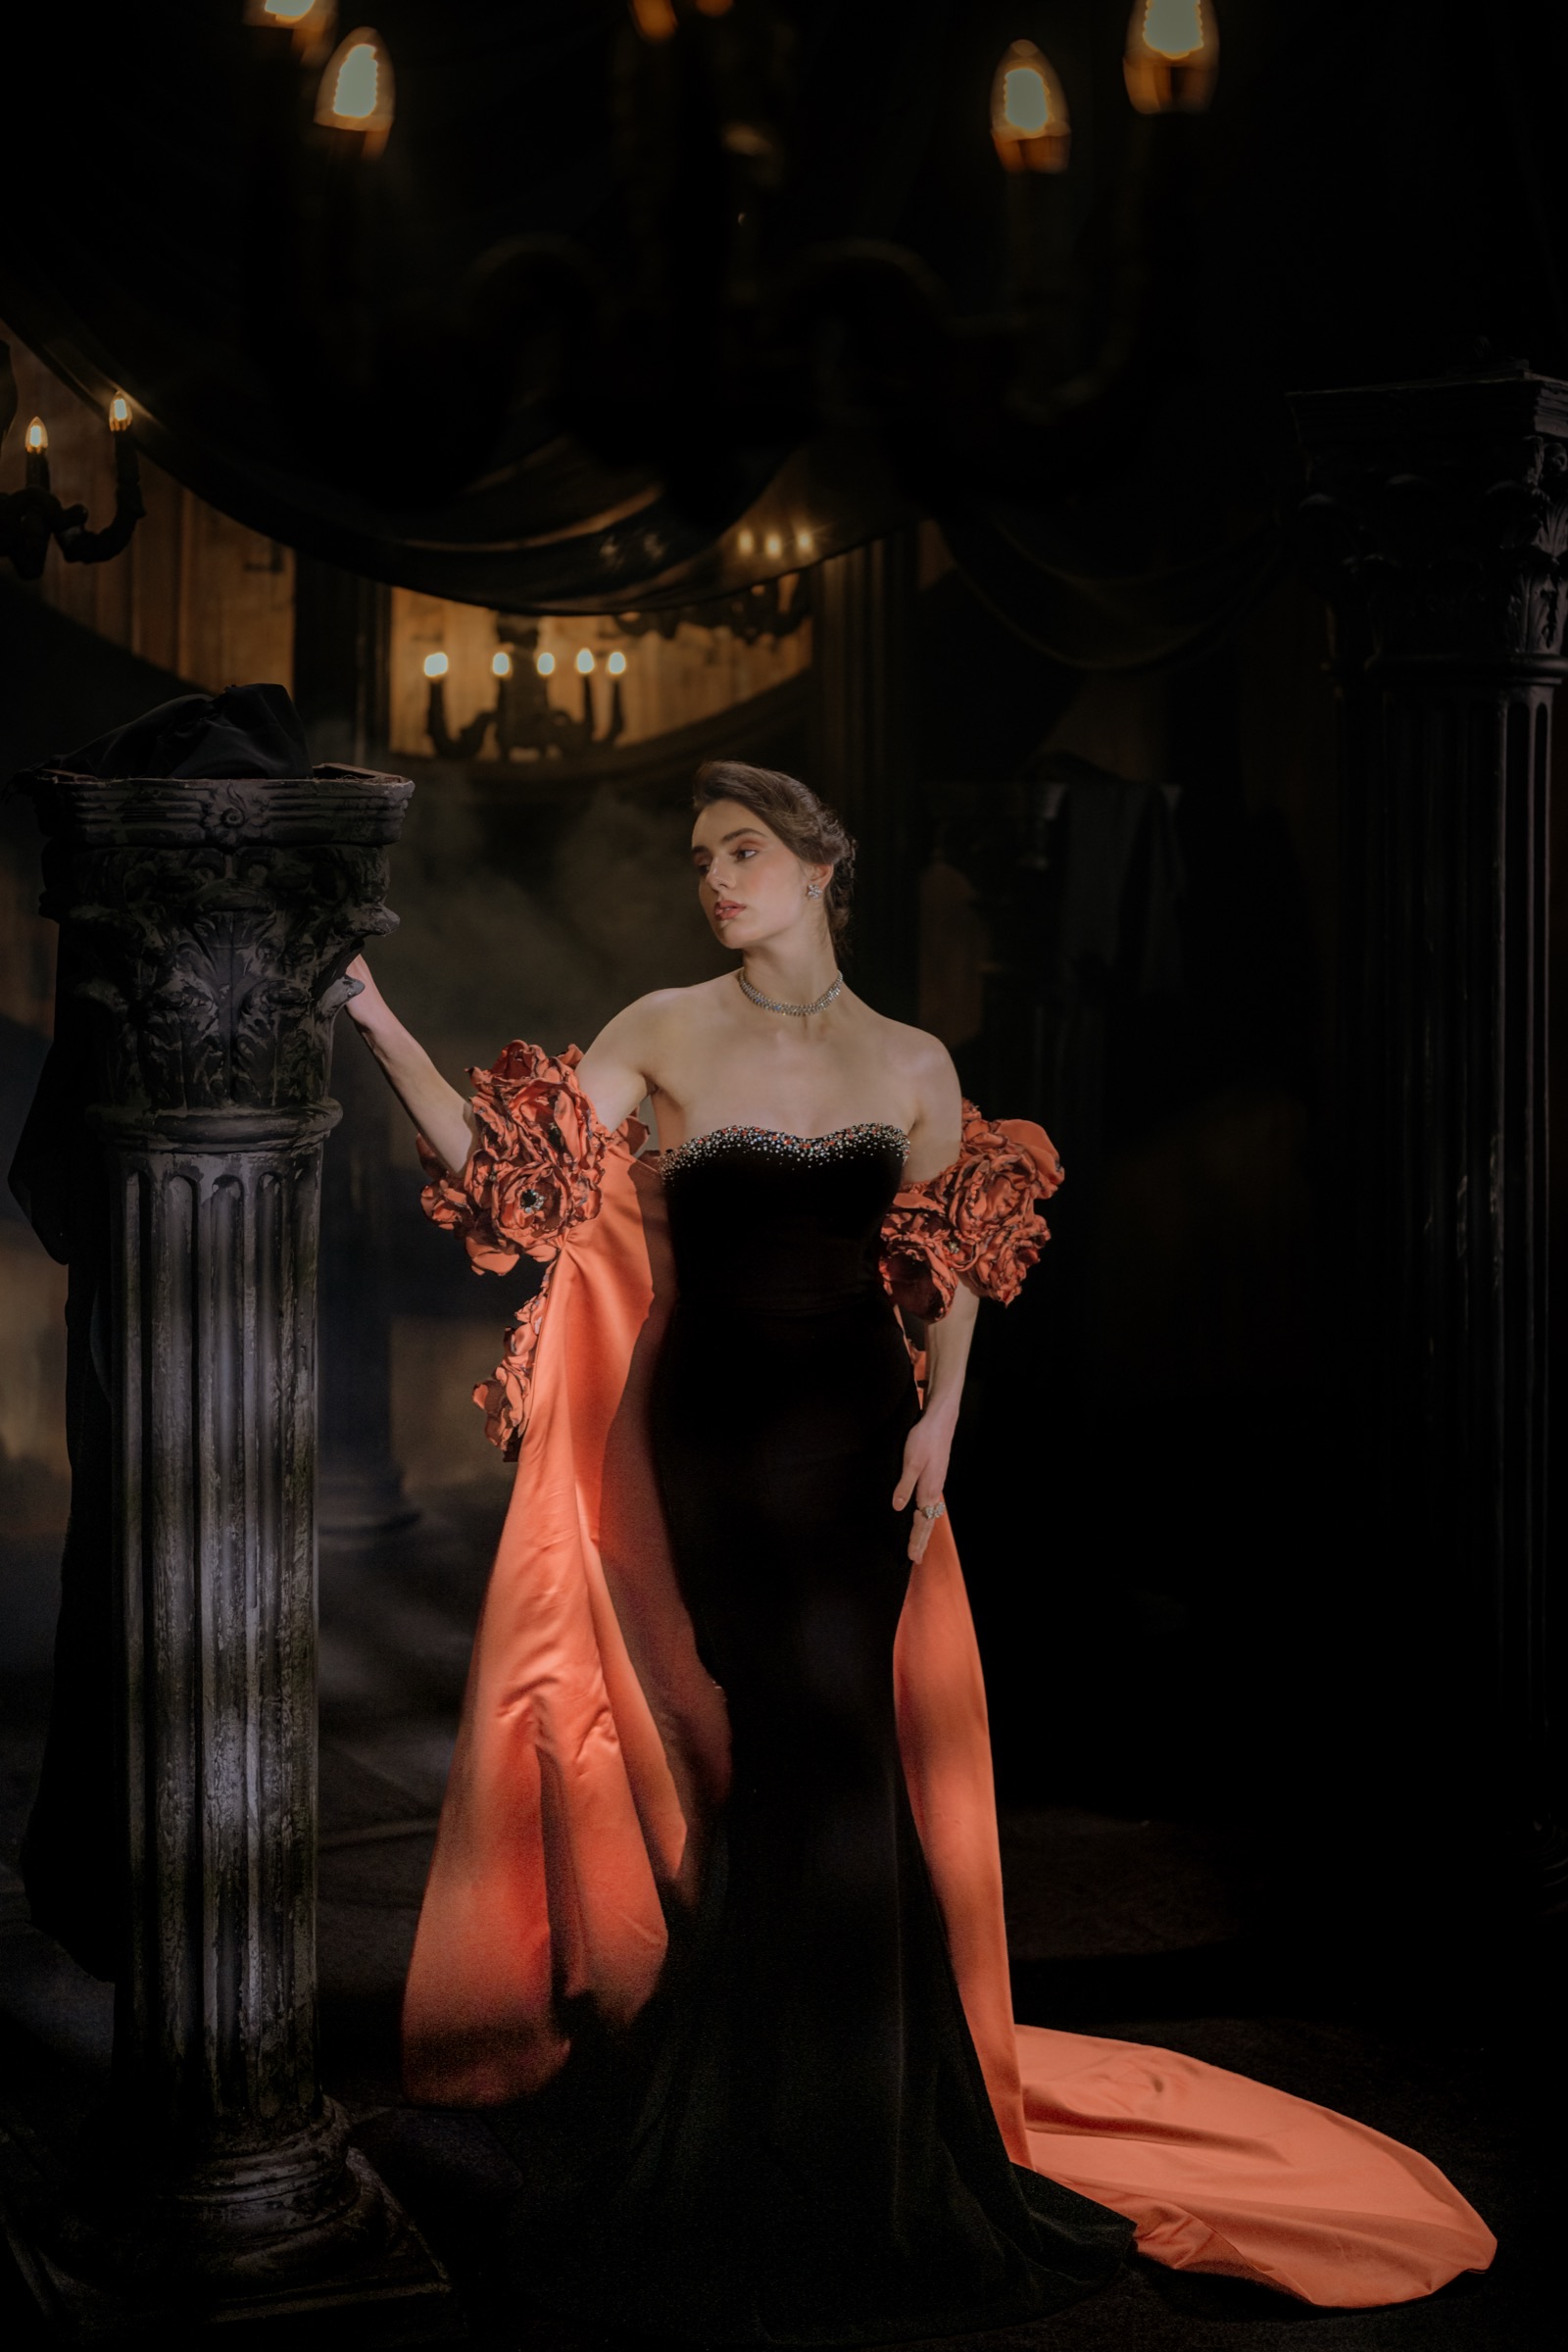
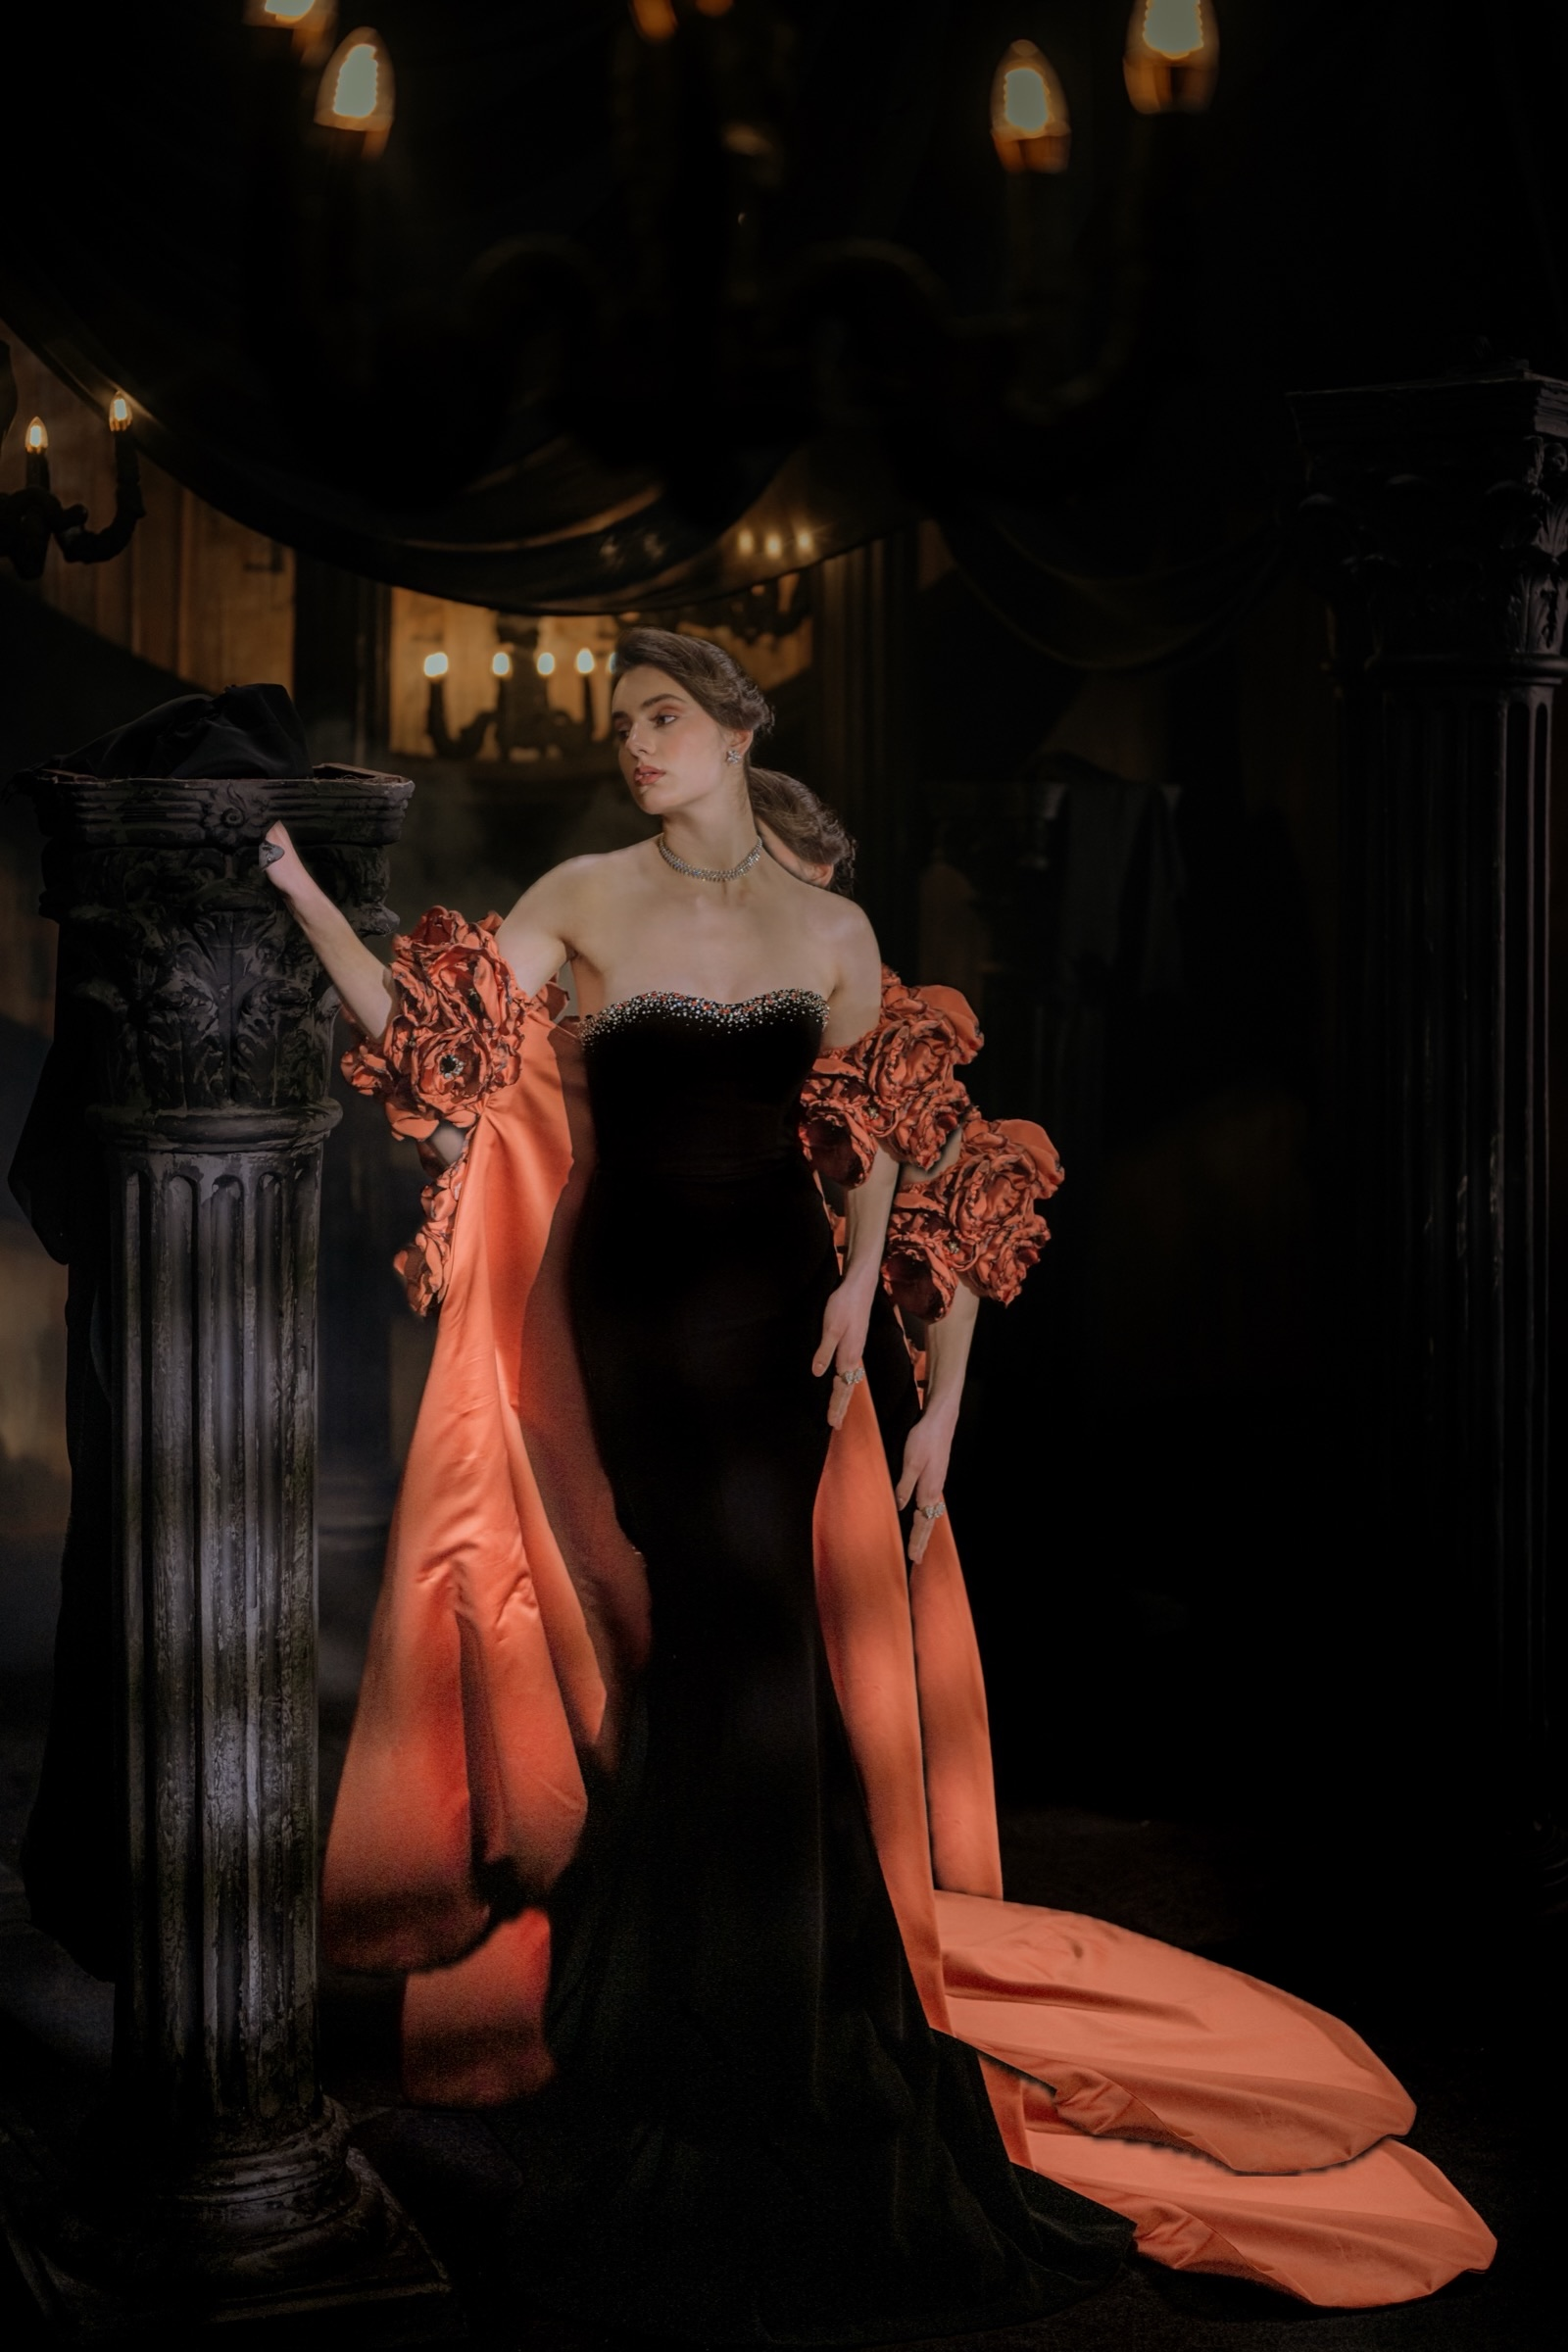
Fix Amber Solstice wedge crop for HSP_2889 portrait.
Center the full-length subject in the wedge with a balanced cover frame so face, gown, and amber wrap are all visible.

Changed region(s): [[0.1562, 0.25, 0.9062, 0.9375]]

diff --git a/src/components/collections/CircularGallery/CircularGallery.tsx b/src/components/collections/CircularGallery/CircularGallery.tsx
@@ -84,13 +84,13 @@ const WEDGE_IMAGE_OVERRIDES: Partial<Record<number, Partial<WedgePatternFrame>>>
     height: 2.15,
     preserveAspectRatio: "xMidYMid slice",
   },
-  // Amber Solstice — full-length, face + amber wrap in second wedge
+  // Amber Solstice — HSP_2889 full-length, center subject in wedge
   1: {
-    x: 0.06,
-    y: -0.05,
-    width: 1.5,
-    height: 2.35,
-    preserveAspectRatio: "xMidYMin slice",
+    x: -0.32,
+    y: -0.72,
+    width: 1.75,
+    height: 2.65,
+    preserveAspectRatio: "xMidYMid slice",
   },
 };
 